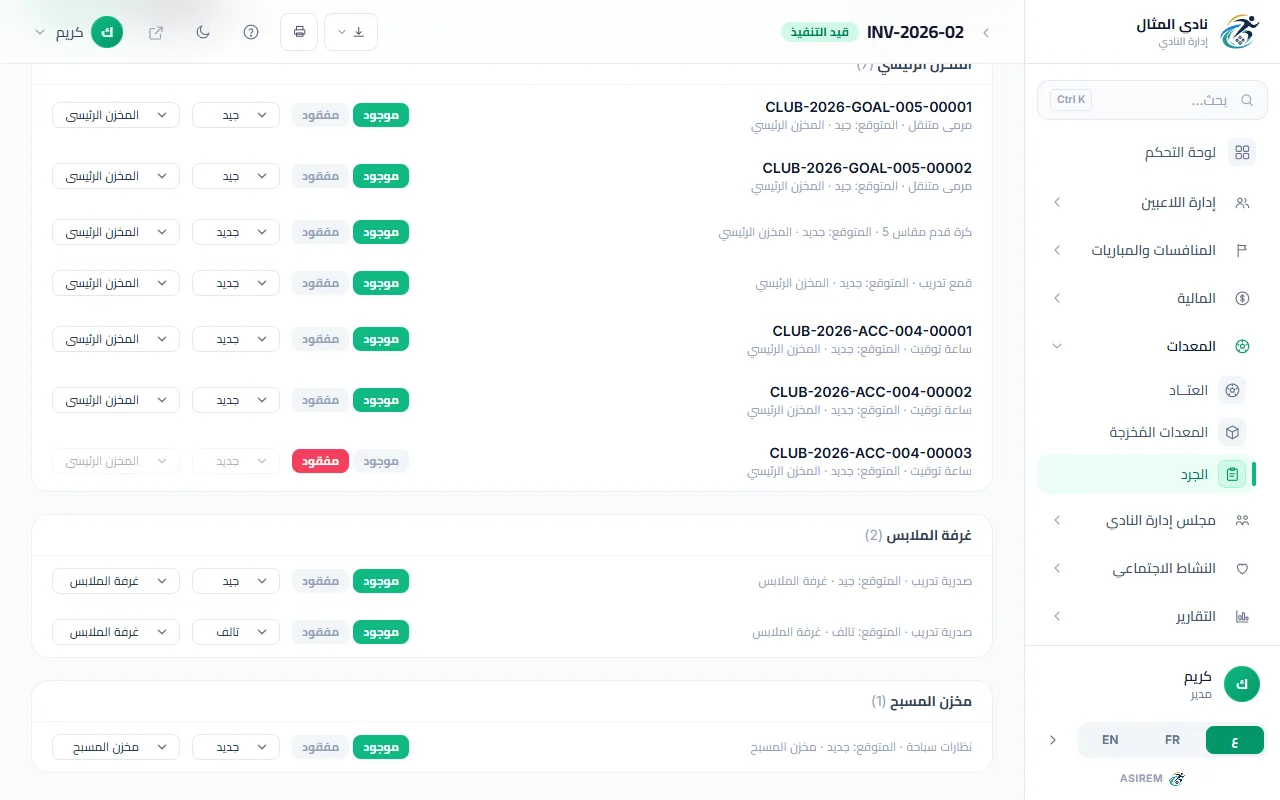
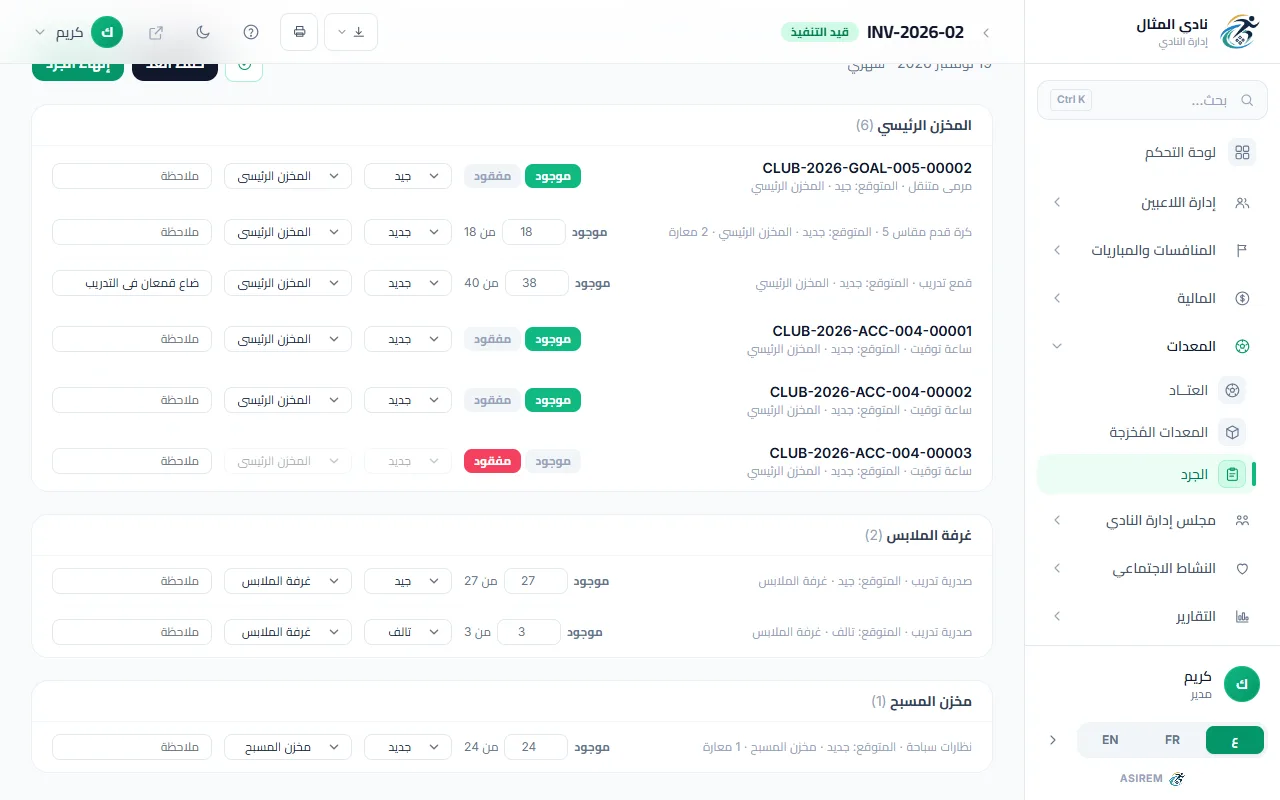
docs(help): stock-take shots retaken on the new count sheet (typed cones count, note, on-loan lines)

diff --git a/resources/help/shots.js b/resources/help/shots.js
@@ -1410,8 +1410,10 @@ export default [
         },
     },
     // Stock-take: session 2 «INV-<year>-02» (monthly, in progress, nothing counted, participant أمين قاسمي).
+    // Its sheet follows the store rule: the balls line expects 18 (2 on loan to أحمد, «2 معارة»), «مرمى 1»
+    // (item 1, lent to مراد بلقاسم) has no line, «ساعة توقيت 2» (item 8, under repair) has one.
     // Nothing is saved: «بدء الجرد», «حفظ العد», «إنهاء الجرد» and the participants' «حفظ» are only ringed;
-    // a line set to «مفقود» or a participant picked stays in the page.
+    // a line set to «مفقود», a typed number or note, or a participant picked stays in the page.
     {
         name: 'eq-stock-take-list',
         url: '/equipment/stocktake',
@@ -1432,12 +1434,15 @@ export default [
     },
     { name: 'eq-stock-take-session', url: '/equipment/stocktake/2', targets: ['stk-mark-all', 'stk-save-counts', 'stk-complete', 'stk-report', 'stk-export'] },
     {
-        // «ساعة توقيت 3» (item 9) not found: its line set to «مفقود» in the page only. Line 7 shows the two lists.
+        // «ساعة توقيت 3» (item 9) not found: its line set to «مفقود»; the cones (item 4, a group of 40)
+        // typed as 38 found, with a note. In the page only. Line 7 shows the two lists.
         name: 'eq-stock-take-lines',
         url: '/equipment/stocktake/2',
-        targets: ['stk-line-9', 'stk-missing-9', 'stk-condition-7', 'stk-location-7', 'stk-found-1'],
+        targets: ['stk-line-9', 'stk-missing-9', 'stk-qty-4', 'stk-note-4', 'stk-condition-7', 'stk-location-7'],
         before: async (page) => {
             await page.locator('[data-help="stk-missing-9"]').click();
+            await page.locator('[data-help="stk-qty-4"]').fill('38');
+            await page.locator('[data-help="stk-note-4"]').fill('ضاع قمعان في التدريب');
             await blur(page);
             await centre(page, 'stk-line-8');
         },
